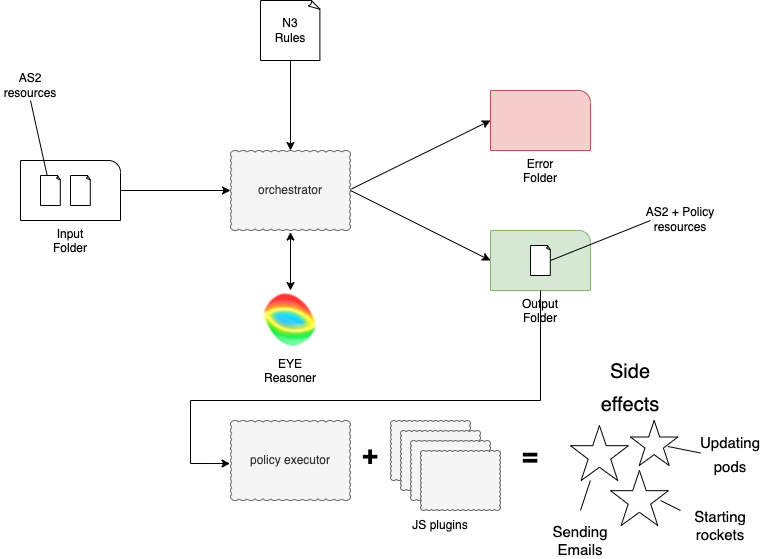
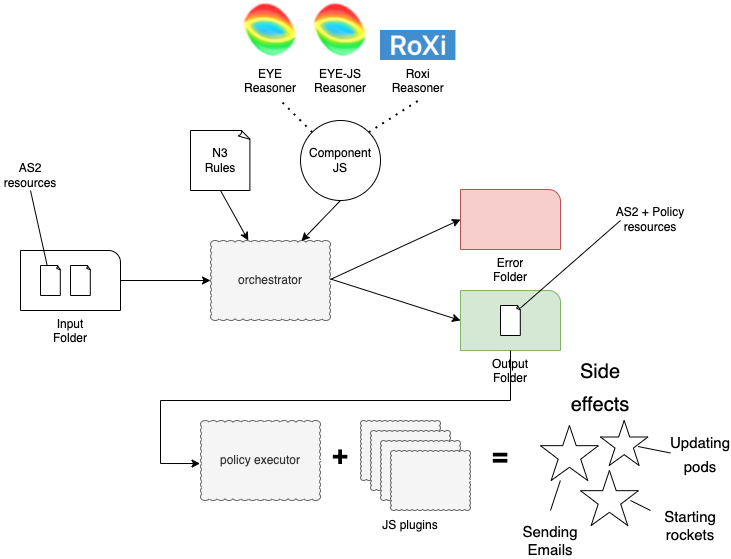
Updating documentation

diff --git a/README.md b/README.md
@@ -8,8 +8,7 @@ Koreografeye was created to facilitate running automated processes against [Soli
 
 Koreografeye can be run on an input directory containing one or more RDF files (in Turtle or N3 format). For each of these files one or more N3 rule scripts can be executed. The results of this execution will be put in an output directory. If the N3 output contains _Policy_ fragments, they can be executed using a _policy executor_. 
 
-Koreografeye is mainly targeted for processing [Activity Streams](https://www.w3.org/TR/activitystreams-core/) (AS2) notifications. For each of these notifications N3 rules express one or more _Policies_ what execution steps should be executed when receiving a AS2 notification of a particular shape. The _orchestrator_ component reads all incoming AS2 notifications and executes the EYE reasoner on each of them and writes the results to
-an output directory. Policies are implemented as JavaScript plugins and can be execute by a _policy executor_.
+Koreografeye is mainly targeted for processing [Activity Streams](https://www.w3.org/TR/activitystreams-core/) (AS2) notifications. For each of these notifications N3 rules express one or more _Policies_ what execution steps should be executed when receiving a AS2 notification of a particular shape. The _orchestrator_ component reads all incoming AS2 notifications and executes the EYE reasoner (or EYE-JS, Roxi,... via configuration) on each of them and writes the results to an output directory. Policies are implemented as JavaScript plugins and can be execute by a _policy executor_.
 
 <img src="documentation/koreografeye.png" alt="Koreografeye architecture" width="500"/>
 
@@ -78,21 +77,21 @@ const { executePolicies } = require('./dist/policy/Executor');
 const { parseAsN3Store, readText, storeAddPredicate } = require('./dist/util');
 
 const store = await parseAsN3Store('./data/demo.ttl'); // input graph
-const rules = [readText('./rules/00_demo.n3')] // array of n3 rules serialized as string
-const orchestratorConfig = './config.jsonld') // orchestrator config -> these are the eye arguments
+const rules = [readText('./rules/00_demo.n3')]; // array of n3 rules serialized as string
+const orchestratorConfig = './config.jsonld'; // orchestrator config -> these are the eye arguments
 
 // add main subject and origin for the reasoner
-const mainSubject = 'urn:uuid:42D2F3DC-0770-4F47-BF37-4F01E0382E32'
+const mainSubject = 'urn:uuid:42D2F3DC-0770-4F47-BF37-4F01E0382E32';
 storeAddPredicate(store, 'https://www.example.org/ns/policy#mainSubject', mainSubject);
 storeAddPredicate(store, 'https://www.example.org/ns/policy#origin', './data/demo.ttl');
 
 // execute reasoning (orchestration)
 const reasoningResult = await reason(store, orchestratorConfig, rules);
 
-const plugins = loadConfig('./plugin.json') // configuration for the policy executor
+const plugins = loadConfig('./plugin.json'); // configuration for the policy executor
 
 // execute policies
-await executePolicies(plugins, reasoningResult)
+await executePolicies(plugins, reasoningResult);
 ```
 
 Note: for this code to run, the project has to be compiled first (`npm run build`).
